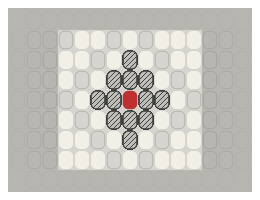
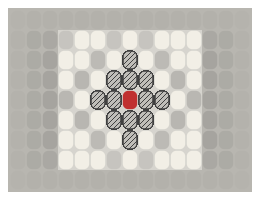
Show the shadow of a bead in place of the outlines of empty places
An empty place has no outline any more. Only near the middle of the
screen and under the pointer it shows the shadow of a bead, a sprite of
faint black (`SHADOW`), on the paper and in the shade alike, fading to
the edge (`crates/obusina-canvas/src/shadow.rs`). The outlines over the
paper drew a grid nobody counted by.

The repeating tile of outlines goes (`tile.rs`).

diff --git a/crates/obusina-canvas/src/lib.rs b/crates/obusina-canvas/src/lib.rs
@@ -2,13 +2,12 @@
 #![doc = include_str!("../README.md")]
 #![deny(missing_docs)]
 
-mod shade;
+mod shadow;
 mod sprite;
 mod texture;
-mod tile;
 mod view;
 
-pub use shade::{FRAME_FADE, NEAR_RADIUS};
+pub use shadow::{FRAME_FADE, NEAR_RADIUS};
 pub use view::{DEFAULT_BEAD, MAX_BEAD, MIN_BEAD, Turn, View};
 
 use egui::{Color32, Pos2, Rect, Response, Sense, Ui, Vec2, vec2};
@@ -18,16 +17,14 @@ use obusina_pattern::{Bounds, Cell, Colour, Pattern, Rgb};
 const GAP: f32 = 0.08;
 /// The rounding of a bead, as a part of its height.
 const ROUNDING: f32 = 0.3;
-/// The width of the outline of an empty place, in points.
-const OUTLINE: f32 = 1.0;
 /// The ground of the active area: a neutral grey, the same in every theme, so
 /// that a colour looks the same and a black bead is seen.
 pub const PAPER: Color32 = Color32::from_rgb(0xd6, 0xd4, 0xce);
 /// The ground outside the active area: the paper in shade.
 const SHADE: Color32 = Color32::from_rgb(0xb8, 0xb6, 0xb0);
-/// The outline of an empty place: a faint dark line, seen on the paper and
-/// in the shade alike.
-const OUTLINE_COLOUR: Color32 = Color32::from_black_alpha(40);
+/// The shadow of an empty place at its strongest: a bead of faint black,
+/// seen on the paper and in the shade alike.
+const SHADOW: Color32 = Color32::from_black_alpha(36);
 
 /// The colour of the hatch of a bead of a removed or hidden colour.
 const HATCH: Color32 = Color32::from_gray(0x40);
@@ -94,7 +91,7 @@ impl<'a> Canvas<'a> {
         painter.rect_filled(rect, 0.0, SHADE);
         self.draw_paper(&painter, origin, visible);
         let pointer = response.hover_pos();
-        self.draw_outlines(ui, &painter, (origin, rect), visible, pointer);
+        self.draw_shadows(ui, &painter, (origin, rect), visible, pointer);
         self.draw_beads(ui, &painter, origin, visible);
 
         let hovered = response
@@ -168,13 +165,10 @@ impl<'a> Canvas<'a> {
         painter.add(egui::Shape::mesh(mesh));
     }
 
-    /// The outlines of the empty places on the screen, from the repeating
-    /// tile: every one on the paper, a column of the work area one quad; in
-    /// the shade those [`shade`] gives, one quad each, as strong as it says.
-    /// They are drawn at every size of a bead. A bead is drawn over its
-    /// outline, which lies inside it. The pattern stands at `origin` of the
-    /// field `rect`.
-    fn draw_outlines(
+    /// The shadows of the empty places that [`shadow`] gives, each a sprite
+    /// of a bead tinted `SHADOW` as strong as it says. The pattern stands at
+    /// `origin` of the field `rect`.
+    fn draw_shadows(
         &self,
         ui: &Ui,
         painter: &egui::Painter,
@@ -183,30 +177,11 @@ impl<'a> Canvas<'a> {
         pointer: Option<Pos2>,
     ) {
         let (grid, ratio) = (self.pattern.grid(), self.pattern.ratio());
-        let texture = tile::texture(
-            ui.ctx(),
-            grid,
-            ratio,
-            self.view.bead,
-            GAP,
-            ROUNDING,
-            OUTLINE,
-        );
+        let texture = sprite::texture(ui.ctx(), ratio, self.view.bead, GAP, ROUNDING);
         let mut mesh = egui::Mesh::with_texture(texture.id());
-        if let Some(cells) = self.work_area().and_then(|area| area.intersection(visible)) {
-            tile::add_columns(
-                &mut mesh,
-                grid,
-                ratio,
-                self.view,
-                origin,
-                cells,
-                OUTLINE_COLOUR,
-            );
-        }
-        for (cell, strength) in self.shade_outlines(origin, rect, visible, pointer) {
-            let colour = OUTLINE_COLOUR.gamma_multiply(strength);
-            tile::add_cell(&mut mesh, grid, ratio, self.view, origin, cell, colour);
+        for (cell, strength) in self.shadows(origin, rect, visible, pointer) {
+            let colour = SHADOW.gamma_multiply(strength);
+            sprite::add_bead(&mut mesh, grid, ratio, self.view, origin, cell, colour);
         }
         painter.add(egui::Shape::mesh(mesh));
     }

diff --git a/crates/obusina-canvas/src/shadow.rs b/crates/obusina-canvas/src/shadow.rs
@@ -1,6 +1,7 @@
-//! Which outlines the shade shows, and how strong each one is.
+//! Which empty places show a shadow, and how strong each one is.
 //!
-//! The shade has outlines only near two places, each fading to its edge:
+//! An empty place shows the shadow of a bead only near two places, on the
+//! paper and in the shade alike, each fading to its edge:
 //!
 //! ```text
 //! ┌──────────────── the screen ────────────────┐
@@ -27,7 +28,7 @@ use crate::Canvas;
 use crate::texture::rounded_box;
 use crate::view::DEFAULT_BEAD;
 
-/// The radius of the round of outlines under the pointer, in cells: a column
+/// The radius of the round of shadows under the pointer, in cells: a column
 /// is a cell wide, a row a cell high.
 pub const NEAR_RADIUS: f32 = 5.0;
 /// How many cells inside its edge the frame fades over.
@@ -38,17 +39,17 @@ const ROUND_FADE: f32 = 0.5;
 const FRAME_CORNER: f32 = 1.0 / 8.0;
 
 impl Canvas<'_> {
-    /// The cells of the shade on the screen with an outline, each with its
-    /// strength, more than 0 and at most 1. The pattern stands at `origin` of
+    /// The empty places of the field on the screen with a shadow, each with
+    /// its strength, more than 0 and at most 1. The pattern stands at `origin` of
     /// the field `rect`; `pointer` is where the pointer is over it.
-    pub(crate) fn shade_outlines(
+    pub(crate) fn shadows(
         &self,
         origin: Pos2,
         rect: Rect,
         visible: Bounds,
         pointer: Option<Pos2>,
     ) -> Vec<(Cell, f32)> {
-        let (Some(field), Some(work_area)) = (self.field(), self.work_area()) else {
+        let Some(field) = self.field() else {
             return Vec::new();
         };
         let Some(shown) = field.intersection(visible) else {
@@ -65,7 +66,7 @@ impl Canvas<'_> {
             .filter(move |cell| !in_frame_box(*cell));
         frame_cells
             .chain(round_cells)
-            .filter(|cell| !work_area.contains(*cell))
+            .filter(|cell| self.pattern.get(*cell).is_none())
             .filter_map(|cell| {
                 let middle = self.middle_of(cell);
                 let frame = self.in_frame(origin, rect, middle);

diff --git a/crates/obusina-canvas/tests/snapshots.rs b/crates/obusina-canvas/tests/snapshots.rs
@@ -110,10 +110,11 @@ fn hatched() {
 }
 
 /// Zoomed out, the field moved so the middle of the screen is at the top
-/// left corner of the paper, the pointer in the shade at the bottom left: the frame of the
-/// screen at zoom 1 and the round under the pointer, each fading to its edge.
+/// left corner of the paper, the pointer in the shade at the bottom left:
+/// the shadows in the frame of the screen at zoom 1 and in the round under
+/// the pointer, each fading to its edge.
 #[test]
-fn shade_zoomed_out() {
+fn shadows_zoomed_out() {
     let pattern = pattern(Grid::Peyote);
     let mut view = View::default();
     view.bead = 6.0;
@@ -141,7 +142,7 @@ fn shade_zoomed_out() {
     harness.hover_at(egui::pos2(170.0, 240.0));
     harness.run();
     harness.snapshot_options(
-        "shade-zoomed-out",
+        "shadows-zoomed-out",
         &SnapshotOptions::new().output_path(PICTURES),
     );
 }

diff --git a/docs/field.md b/docs/field.md
@@ -41,17 +41,16 @@ on the field, columns 1 2 3       the file
 
 7. **The grid is chosen in a `PlateMenu`** of two entries (`RULE ui.menu`).
 8. **The ground is in shade outside the work area** (decision 13). The
-   paper of the work area is lighter. An empty cell is the same faint outline
-   on the paper; in the shade, decision 20.
-   - Replaces the pale outlines outside the active area: one tile, one
-     colour, and the active area is seen as a whole.
+   paper of the work area is lighter. An empty cell has no outline; near the
+   middle of the screen and the pointer it shows a shadow (decision 20).
+   - Replaces the pale outlines outside the active area: one colour, and the
+     active area is seen as a whole.
 9. **The active area is the box itself,** with no margin around it. A bead
    can be drawn outside it all the same.
-10. **The outlines are drawn at every size of a bead.** A zoom never hides
-    the grid.
-    - Was: hidden below a smallest bead, because tens of thousands of
-      outlines cost too much to draw. One repeating tile costs the same at
-      any size (decision 15), so the reason is gone.
+10. **The shadows are drawn at every size of a bead.** A zoom never hides
+    them.
+    - Was: outlines, hidden below a smallest bead, because tens of thousands
+      of them cost too much to draw.
 11. **A new pattern is an empty field,** shown on cell (0, 0). A pattern
     with beads opens on the middle of its active area.
 12. **A turn keeps the middle of the screen.** What is seen in the middle
@@ -103,19 +102,15 @@ on the field, columns 1 2 3       the file
     - The sheet is part of the pattern (decision 17): a change of its size
       is a step of undo. Changes one after another are one step, since a
       number dragged changes it in every frame.
-15. **The outlines are one repeating texture, apart from the beads.** A tile
-    of outlines is drawn once for the size of a bead; a column of the field
-    is one quad of it. The beads are their own mesh.
-    - Why: the outlines were most of one mesh and were built again on every
-      press. At a bead of 10 points in a window of 1000 by 700 points, a
-      press took about 40 ms of a release build; now a press, a
-      step of a zoom and a move each take a few ms.
+15. **There are no outlines of empty places.** Decision 20 replaces them.
+    - Was: a repeating texture of outlines, a quad of it for each column of
+      the field.
 16. **A bead is a sprite.** One white bead is drawn into a texture for the
-    size of a bead; every bead is a quad of it, tinted its colour. Nothing is
-    tessellated, so nothing is kept from frame to frame but the two
-    textures.
-    - In the case of decision 15, a press, a step of a zoom and a move now
-      take about 0.1 ms each.
+    size of a bead; every bead is a quad of it, tinted its colour, and so is
+    every shadow. Nothing is tessellated, so nothing is kept from frame to
+    frame but the textures.
+    - At a bead of 10 points in a window of 1000 by 700 points, a press, a
+      step of a zoom and a move take about 0.1 ms each.
 17. **The sheet is written to the file.** It is the size of the work area
     set by hand, a part of the work, not of the window: `Pattern::sheet`,
     and `sheet` in the file, its origin and its size. A new pattern takes
@@ -139,23 +134,24 @@ on the field, columns 1 2 3       the file
       android carried the pattern off the screen.
     - The place and the zoom of the view are not written to the file: they
       belong to the window, not to the work.
-20. **In the shade the outlines stand only near the middle of the screen and
-    the pointer,** each fading to its edge. The rules are in
-    `crates/obusina-canvas/src/shade.rs`.
+20. **An empty place shows the shadow of a bead only near the middle of the
+    screen and the pointer,** on the paper and in the shade alike, each
+    fading to its edge. A shadow is a bead of faint black (`SHADOW`). The
+    rules are in `crates/obusina-canvas/src/shadow.rs`.
     - The frame is the screen at zoom 1 (`DEFAULT_BEAD`), in the middle of
       the screen, its corners rounded. Zoomed out it shows how much of the
       field one screen at zoom 1 holds. At zoom 1 and in, it is the screen
-      or more, and the whole shade on the screen has outlines.
+      or more, and every empty place on the screen has a shadow.
     - The round is `NEAR_RADIUS` cells around the pointer.
-    - Both end at the edge of the field. On the paper every outline stands.
+    - Both end at the edge of the field.
     - Why the frame: android gives no pointer while a stylus hovers. winit
       0.30 drops the events of a hover (`MotionAction::HoverMove`), so the
       round alone shows nothing under a finger or a stylus.
-    - Why the round stays: zoomed out, it shows the outlines past the frame
+    - Why the round stays: zoomed out, it shows the shadows past the frame
       under a mouse.
-    - Why the fade: a hard edge reads as a hole in the shade.
-    - An outline in the shade is a quad of its own from the tile of
-      decision 15, as strong as the fade says. Zoomed out the frame holds
-      as many cells as the screen at zoom 1, a few thousand quads.
-    - Was: the outlines over the whole field; then a round of ten cells
-      under the pointer alone.
+    - Why the fade: a hard edge reads as a hole.
+    - Zoomed out the frame holds as many cells as the screen at zoom 1, a
+      few thousand quads.
+    - Was: outlines over the whole field; then outlines over the paper,
+      and in the shade only in the frame and the round. A soft spot with no
+      cells was weighed and left: it does not show where a bead goes.

diff --git a/crates/obusina-canvas/README.md b/crates/obusina-canvas/README.md
@@ -14,30 +14,28 @@ The field of beads: an egui widget that draws an
   bare and a press does nothing. Only its cells on the screen are drawn.
 - A bead is drawn at its proportions, with a small gap. The ground of the
   work area is paper, `PAPER`, which a new colour is told from; the rest
-  of the field is in shade. An empty place is
-  a faint outline, at every size of a bead: every one on the paper; in the
-  shade only those in a frame of the screen at zoom 1 (`DEFAULT_BEAD`) in
-  its middle and within `NEAR_RADIUS` cells of the pointer, each fading
-  over its edge (`FRAME_FADE`). With no pointer over the field, as under a
-  finger, there is no round. `shade.rs` holds the rules.
+  of the field is in shade. An empty place has no outline. It shows the
+  shadow of a bead, `SHADOW`, only in a frame of the screen at zoom 1
+  (`DEFAULT_BEAD`) in its middle and within `NEAR_RADIUS` cells of the
+  pointer, on the paper and in the shade alike, each fading over its edge
+  (`FRAME_FADE`). With no pointer over the field, as under a finger, there
+  is no round. `shadow.rs` holds the rules.
 - Puts the middle of the work area, or cell (0, 0) when there is none, in
   the middle of the field the first time the field has a size.
 - Keeps the middle of the field where it is when the field changes its
   size, at the same size of a bead. When then no cell of the work area is
   on the screen, it centres the work area again. A frame where the field
   has no size is skipped.
-- Nothing is tessellated. Two textures are drawn by the distance to a
-  rounded box, again only when the size of a bead or the grid changes:
-  - a tile of outlines that repeats (`tile.rs`): loom every cell, peyote
-    every two columns; a column of the work area on the screen is one quad
-    of it, an outline in the shade one quad of its own;
-  - one white bead (`sprite.rs`); a bead on the screen is one quad of it,
-    tinted its colour. A bead of a colour not seen, removed or hidden
-    (`Colour::seen`), is a quad of a second texture: its outline and
-    diagonal lines.
+- Nothing is tessellated. One white bead is drawn into a texture by the
+  distance to a rounded box, again only when the size of a bead changes
+  (`sprite.rs`). A bead on the screen is one quad of it, tinted its colour;
+  so is a shadow, tinted `SHADOW`. A bead of a colour not seen, removed or
+  hidden (`Colour::seen`), is a quad of a second texture: its outline and
+  diagonal lines.
 
   Every frame lays the quads of what is on the screen anew; a frame costs
-  as many quads as there are columns and beads on the screen.
+  as many quads as there are columns of paper, beads and shadows on the
+  screen.
 - Turns the field by quarters, `View::turn`: 90, 180, 270, and 360, which is
   where it started. What is in the middle of the field stays there. Only the
   showing turns; the pattern is the same.
@@ -59,13 +57,13 @@ The field of beads: an egui widget that draws an
 | Peyote | ![Peyote][picture-peyote] |
 | Peyote, turned 90° | ![Peyote turned][picture-peyote-turned] |
 | A colour removed, its beads hatched | ![Hatched][picture-hatched] |
-| Zoomed out: the frame of the screen at zoom 1, the round under the pointer | ![Shade][picture-shade-zoomed-out] |
+| Zoomed out: the shadows in the frame of the screen at zoom 1 and in the round under the pointer | ![Shadows][picture-shadows-zoomed-out] |
 
 [picture-loom]: img/loom.png
 [picture-peyote]: img/peyote.png
 [picture-peyote-turned]: img/peyote-turned.png
 [picture-hatched]: img/hatched.png
-[picture-shade-zoomed-out]: img/shade-zoomed-out.png
+[picture-shadows-zoomed-out]: img/shadows-zoomed-out.png
 
 ## Boundaries
 

diff --git a/README.md b/README.md
@@ -9,11 +9,11 @@ An editor of bead patterns, for Linux, Windows and Android.
 - The work area is on paper: the sheet, whose columns and rows are set in
   the tools and start at the size of the first screen, and every bead put
   past it. A bead put in the shade around grows the sheet. A bead taken
-  away shrinks it to the box of the beads, never below the first screen. The shade reaches half the work
-  area past it on every side. An empty place is a faint outline at every
-  zoom: on the paper everywhere; in the shade only in a frame of the
-  screen at zoom 1 in its middle and in a round under the pointer, both
-  fading to the edge. A new pattern is an empty sheet.
+  away shrinks it to the box of the beads, never below the first screen.
+  The shade reaches half the work area past it on every side. An empty
+  place has no outline: only near the middle of the screen and under the
+  pointer it shows the faint shadow of a bead, at every zoom. A new pattern
+  is an empty sheet.
 - Two kinds of grid: loom (and square stitch) and peyote.
 - Two floating panels with no title. The grip of dots moves a panel; a tap on
   it folds the panel. Dragged to the left or the right edge of the window, a
